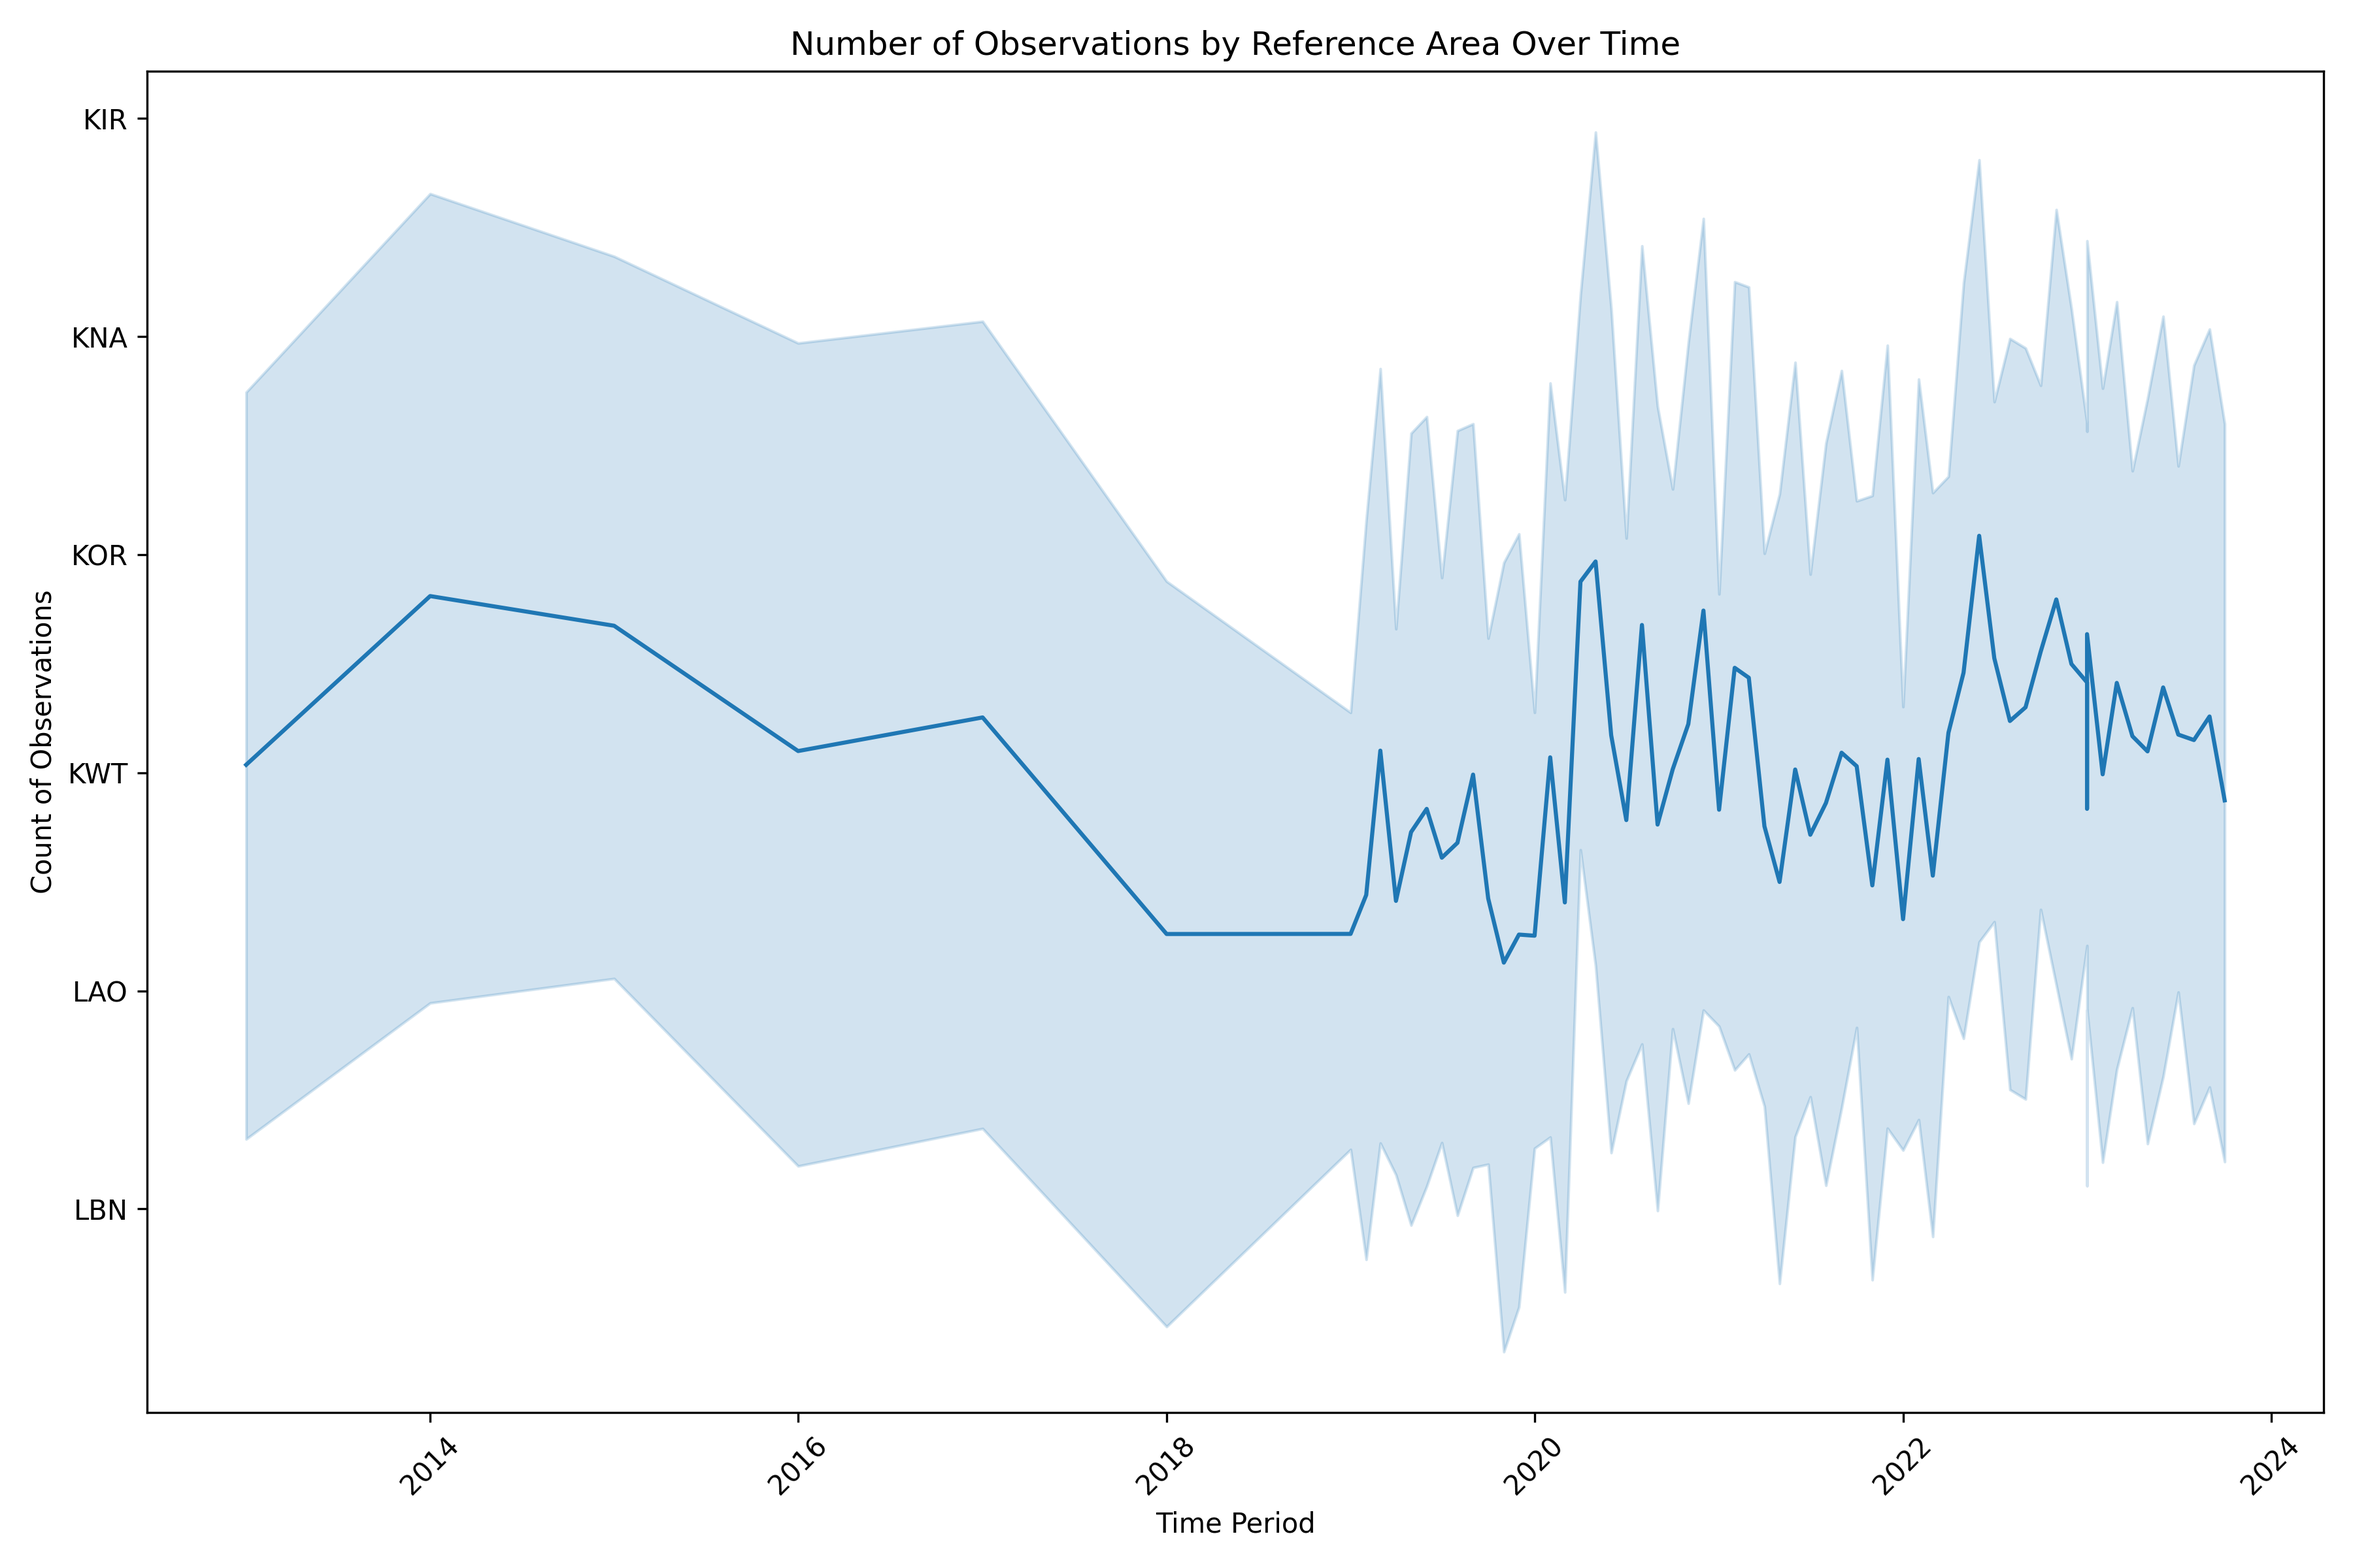
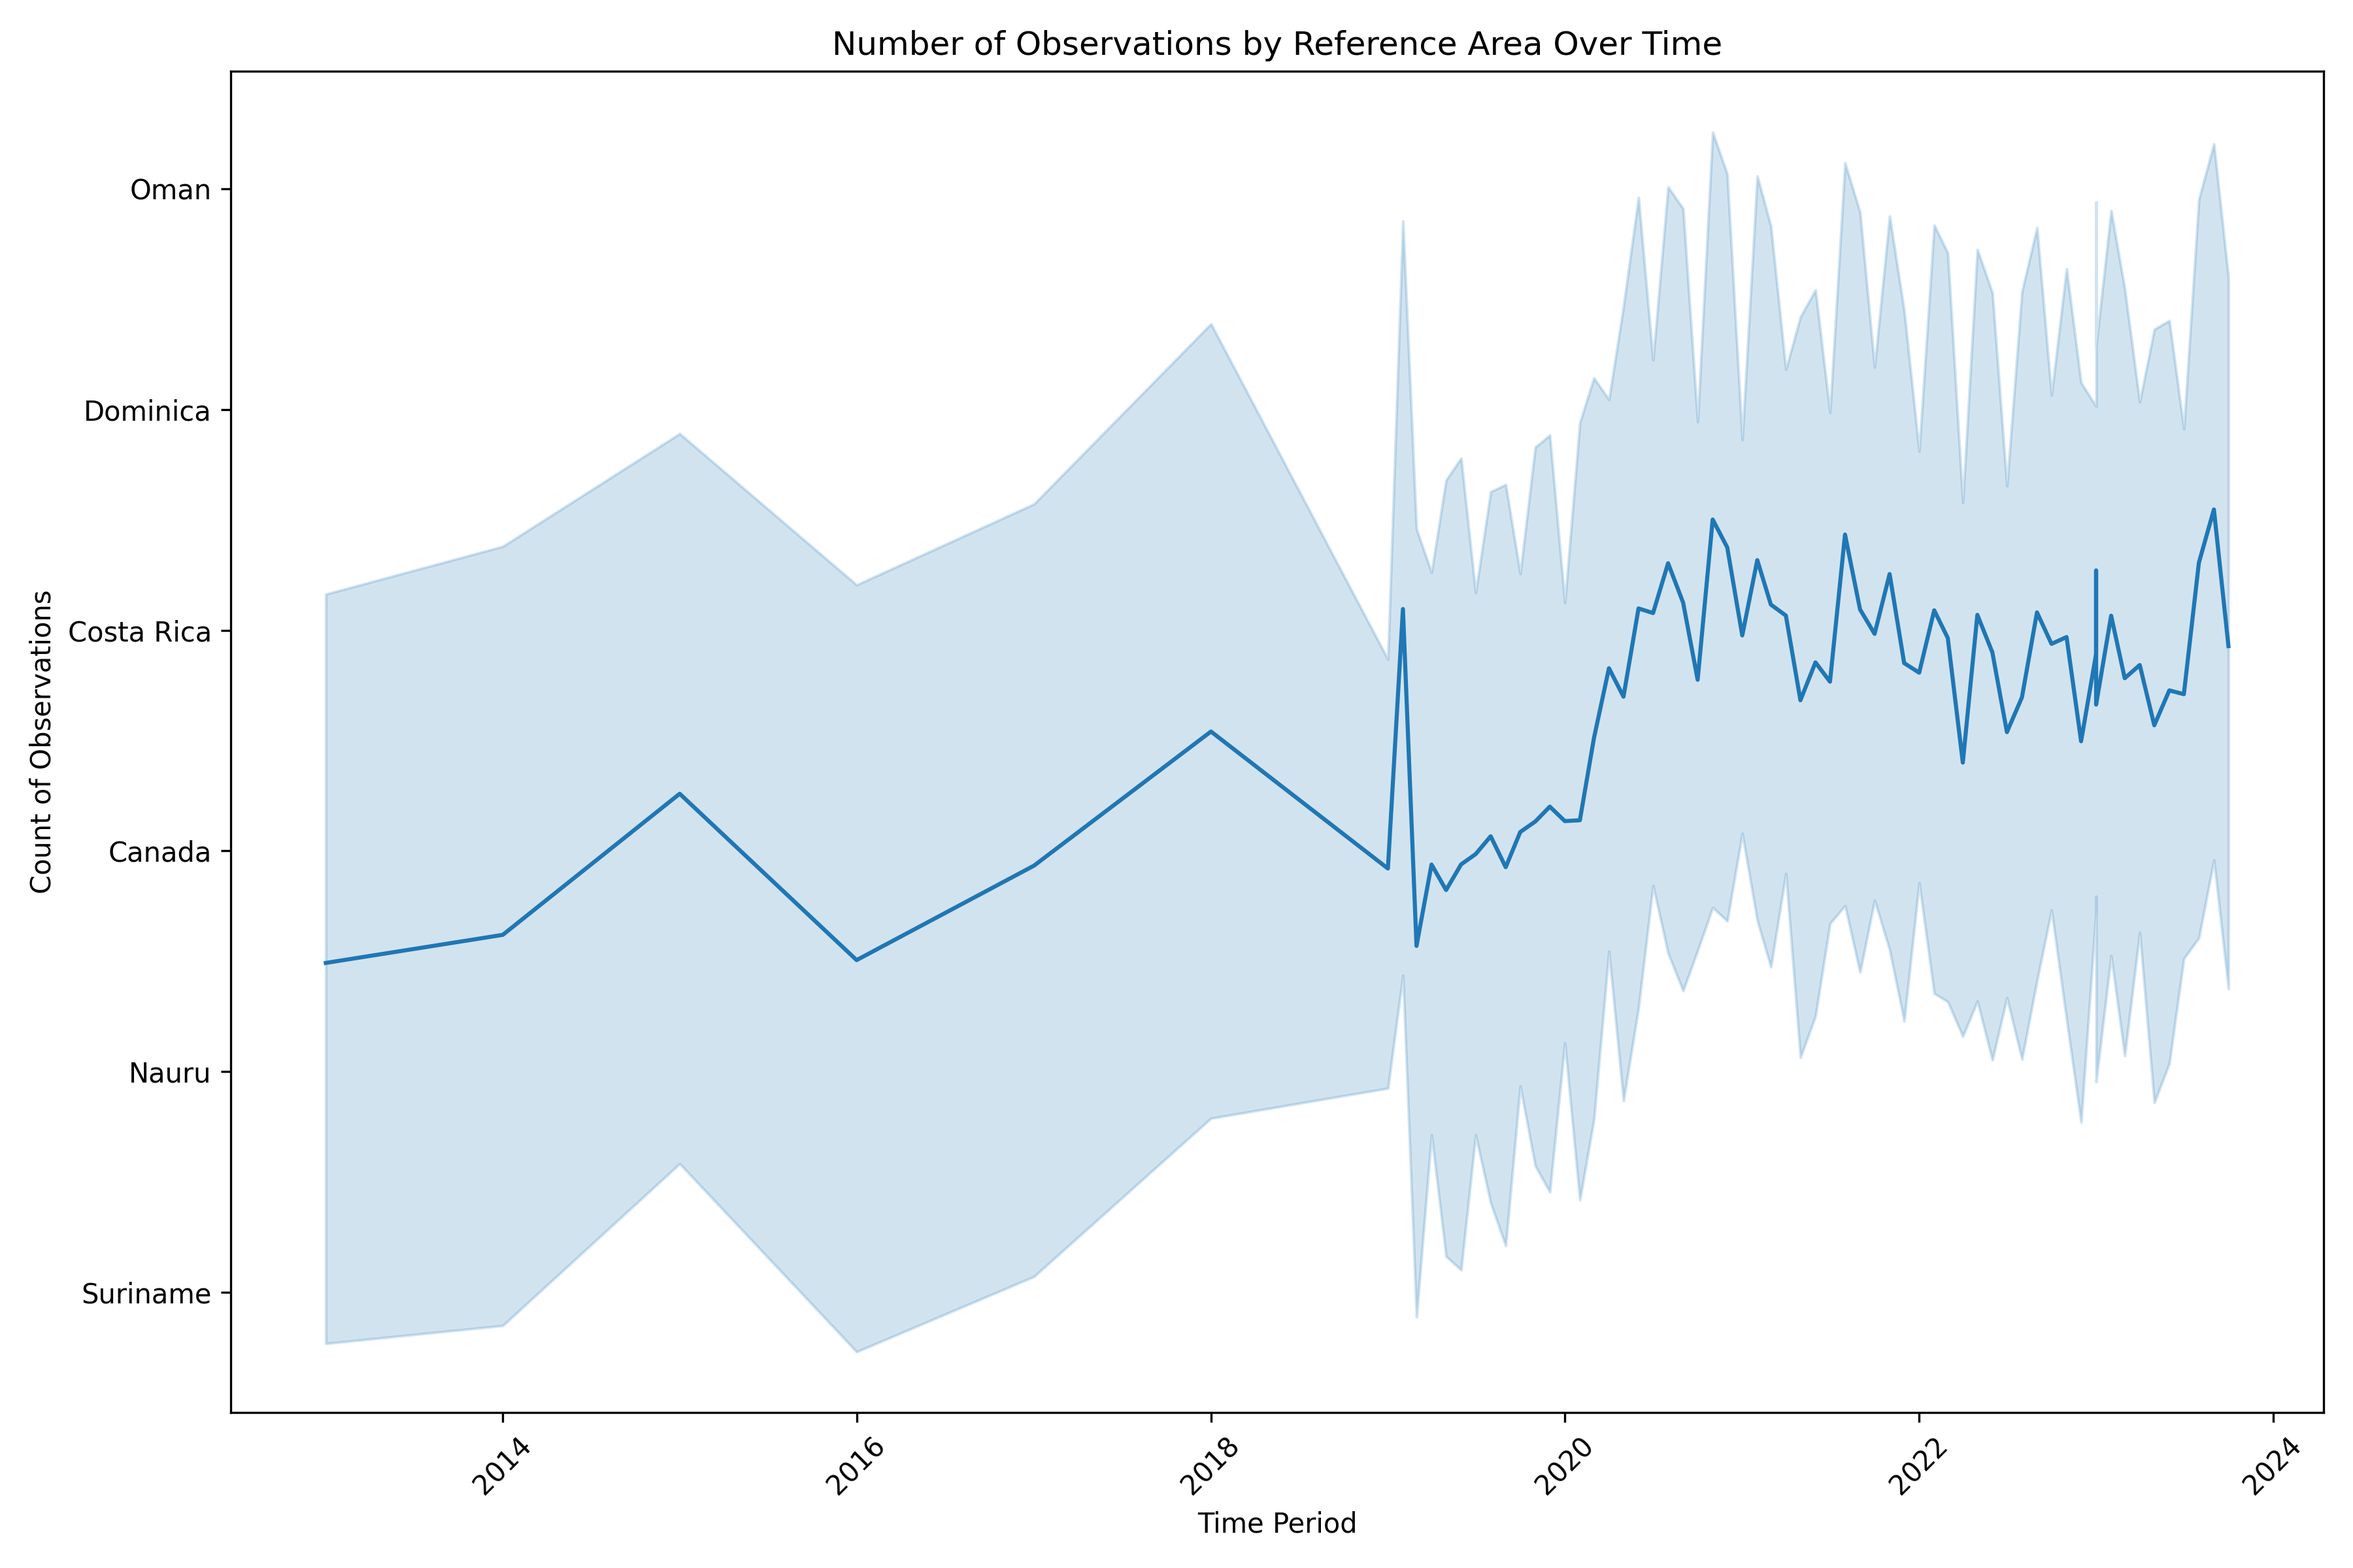
graphs

diff --git a/first_round_excel.py b/first_round_excel.py
@@ -4,41 +4,5 @@ import seaborn as sns
 import matplotlib.pyplot as plt
 file = 'raw_data/unwto-all-data-download_112023.xlsx'
 
-data_excel = pd.read_excel(file, sheet_name="Inbound Tourism-Regions")
-
-file = 'raw_data/OECD.SDD.NAD.SEEA,DSD_AIR_TRANSPORT@DF_AIR_TRANSPORT,1.0+all.csv'
-
-data_csv = pd.read_csv(file)
-excluded_from_list = ['Time period', 'Observation value', 'OBS_STATUS', 'Observation status']
-
-data_csv.drop(excluded_from_list, axis=1, inplace=True)
-
-
-columns_mapping = {
-    'REF_AREA': 'Reference area',
-    'FREQ' :'Frequency of observation',
-    'MEASURE': 'Measure',
-    'UNIT_MEASURE': 'Unit of measure',
-    'ADJUSTMENT': 'Adjustment',
-    'POLLUTANT': 'Pollutants',
-    'FLIGHT_TYPE':'Flight type',
-    'EMISSIONS_SOURCE':'Emissions source',
-    'DECIMALS':'Decimals'
-}
-
-# Iterate over the columns and perform the operations
-for code_column, name_column in columns_mapping.items():
-    # Create a reference DataFrame for the current column
-    reference_df = data_csv[[code_column, name_column]].drop_duplicates()
-    
-    # Merge the reference DataFrame with your original DataFrame
-    merged_df = pd.merge(data_csv, reference_df, on=code_column, how='left')
-    
-    # Update the original DataFrame with the merged column
-    data_csv[code_column] = data_csv[code_column].astype('category')
-
-data_csv['UNIT_MULT'] = data_csv['UNIT_MULT'].replace([0, -999], np.nan)
-
-
-combined_data = pd.concat([data_excel, data_csv])
-print(combined_data.dtypes)
+data_transport = pd.read_excel(file, sheet_name="Inbound Tourism-Transport")
+data_accomodation = pd.read_excel(file, sheet_name="Inbound Tourism-Accommodation")

diff --git a/first_round.py b/first_round.py
@@ -6,6 +6,7 @@ file = 'raw_data/OECD.SDD.NAD.SEEA,DSD_AIR_TRANSPORT@DF_AIR_TRANSPORT,1.0+all.cs
 
 data = pd.read_csv(file)
 #time period Observation value
+
 excluded_from_list = ['Time period', 'Observation value', 'OBS_STATUS', 'Observation status']
 
 data.drop(excluded_from_list, axis=1, inplace=True)
@@ -50,7 +51,7 @@ sns.countplot(data=data_top_20, x='REF_AREA', order=top_20_ref_areas)
 
 # Add title and axis labels
 plt.title('Number of Observations by Top 20 Reference Areas')
-plt.xlabel('Reference Area')
+plt.xlabel('Reference area')
 plt.ylabel('Count')
 
 plt.xticks(rotation=45)
@@ -60,7 +61,7 @@ plt.tight_layout()
 plt.savefig('graphs/observation_areas.png', dpi=300) 
 
 plt.figure(figsize=(8, 6))
-sns.countplot(data=data, x='FREQ')
+sns.countplot(data=data, x='Frequency of observation')
 
 # Add title and axis labels
 plt.title('Count of Frequency')
@@ -72,7 +73,7 @@ plt.tight_layout()
 plt.savefig('graphs/frequency.png', dpi=300) 
 
 plt.figure(figsize=(8, 6))
-sns.countplot(data=data, x='FLIGHT_TYPE')
+sns.countplot(data=data, x='Flight type')
 
 # Add title and axis labels
 plt.title('Count of Flight Types')
@@ -87,7 +88,7 @@ data['TIME_PERIOD'] = pd.to_datetime(data['TIME_PERIOD'])
 
 # Create the line plot
 plt.figure(figsize=(12, 8))
-sns.lineplot(data=data, x='TIME_PERIOD', y='REF_AREA')
+sns.lineplot(data=data, x='TIME_PERIOD', y='Reference area')
 
 # Add title and axis labels
 plt.title('Number of Observations by Reference Area Over Time')
